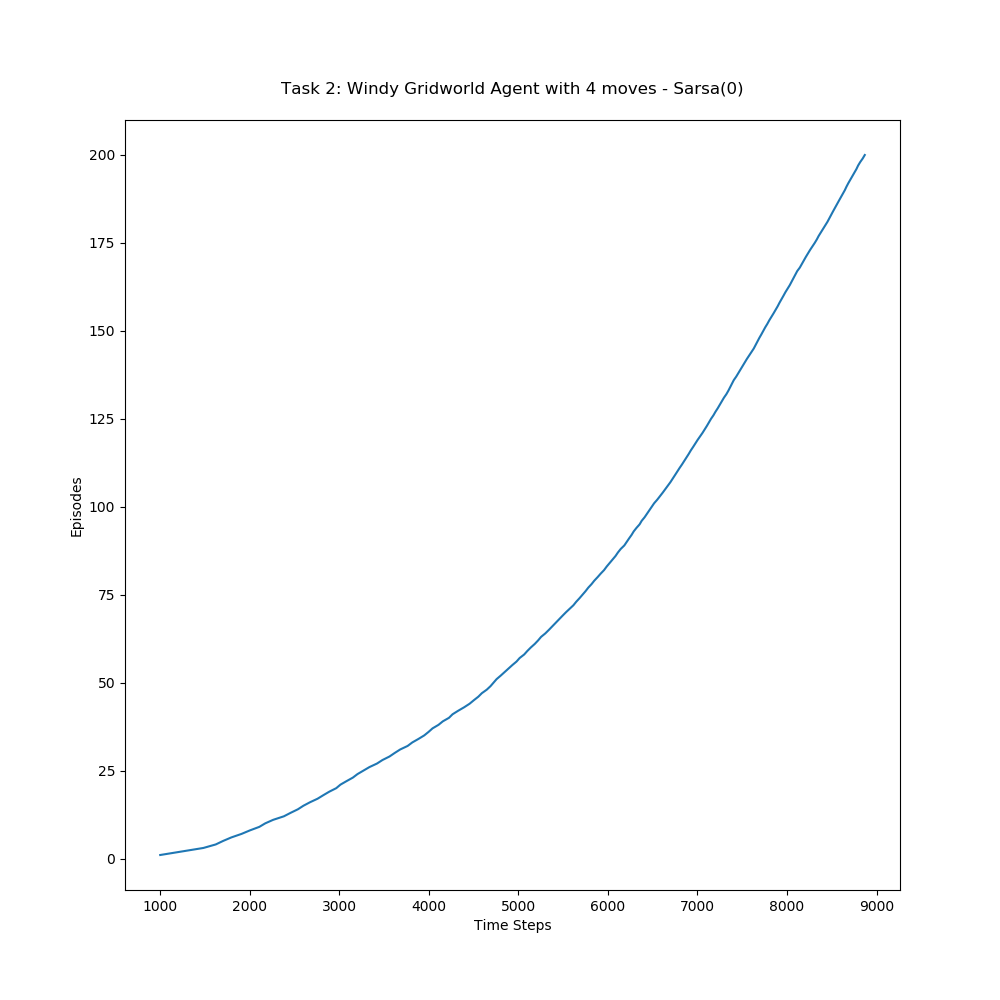
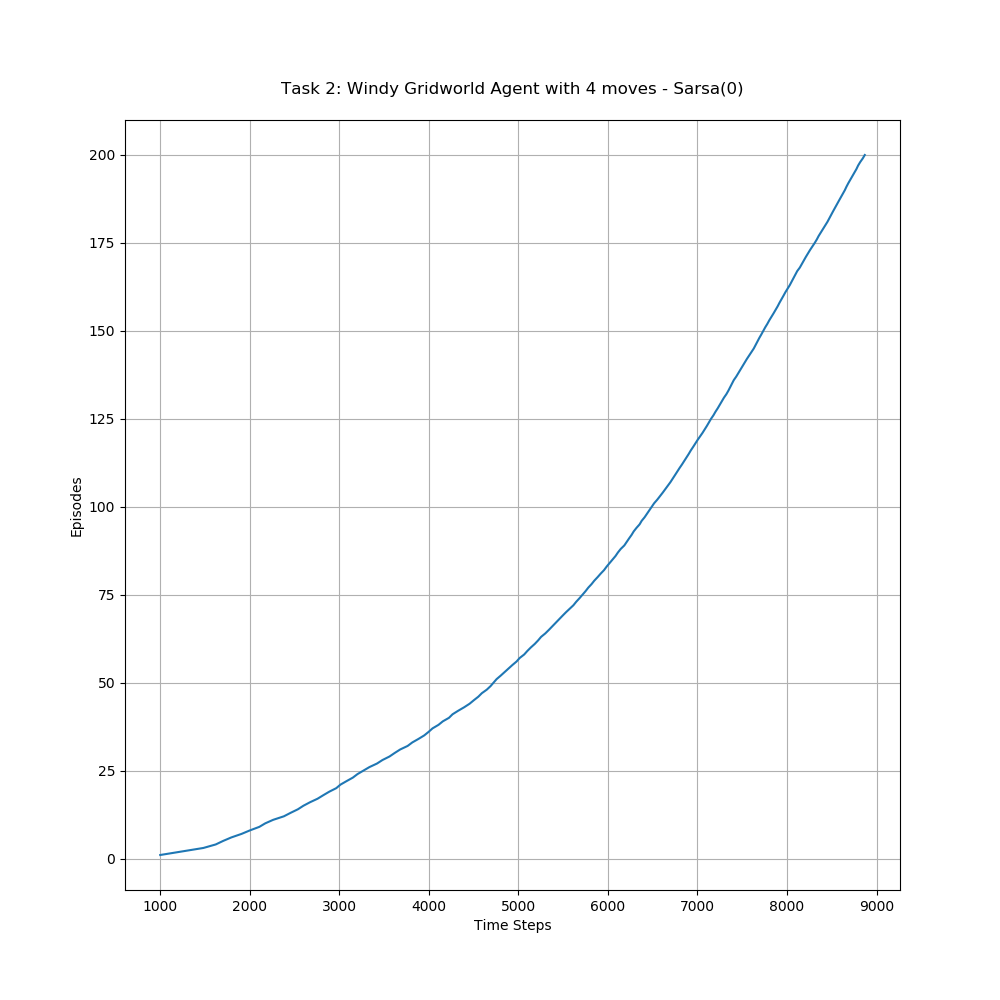
added grid to plot

diff --git a/cs747-pa3/main.py b/cs747-pa3/main.py
@@ -4,7 +4,6 @@ from agent import Solve
 parser = argparse.ArgumentParser()
 
 def run(algorithm, kings_moves = False, stochastic=False):
-    np.random.seed(0)
     data = []
     for i in range(10):
         np.random.seed(i)
@@ -25,6 +24,7 @@ if __name__ == "__main__":
         plt.title("Task 2: Windy Gridworld Agent with 4 moves - Sarsa(0)\n")
         plt.xlabel("Time Steps")
         plt.ylabel("Episodes")
+        plt.grid()
         plt.savefig("plots/task2.png")
         plt.show()
 
@@ -33,6 +33,7 @@ if __name__ == "__main__":
         plt.title("Task 3: Windy Gridworld Agent with King's moves - Sarsa(0)\n")
         plt.xlabel("Time Steps")
         plt.ylabel("Episodes")
+        plt.grid()
         plt.savefig("plots/task3.png")
         plt.show()
 
@@ -41,6 +42,7 @@ if __name__ == "__main__":
         plt.title("Task 4: Windy Gridworld Agent with King's moves and stochastic wind - Sarsa(0)\n")
         plt.xlabel("Time Steps")
         plt.ylabel("Episodes")
+        plt.grid()
         plt.savefig("plots/task4.png")
         plt.show()
 
@@ -52,5 +54,6 @@ if __name__ == "__main__":
         plt.xlabel("Time Steps")
         plt.ylabel("Episodes")
         plt.legend()
+        plt.grid()
         plt.savefig("plots/task5.png")
         plt.show()
